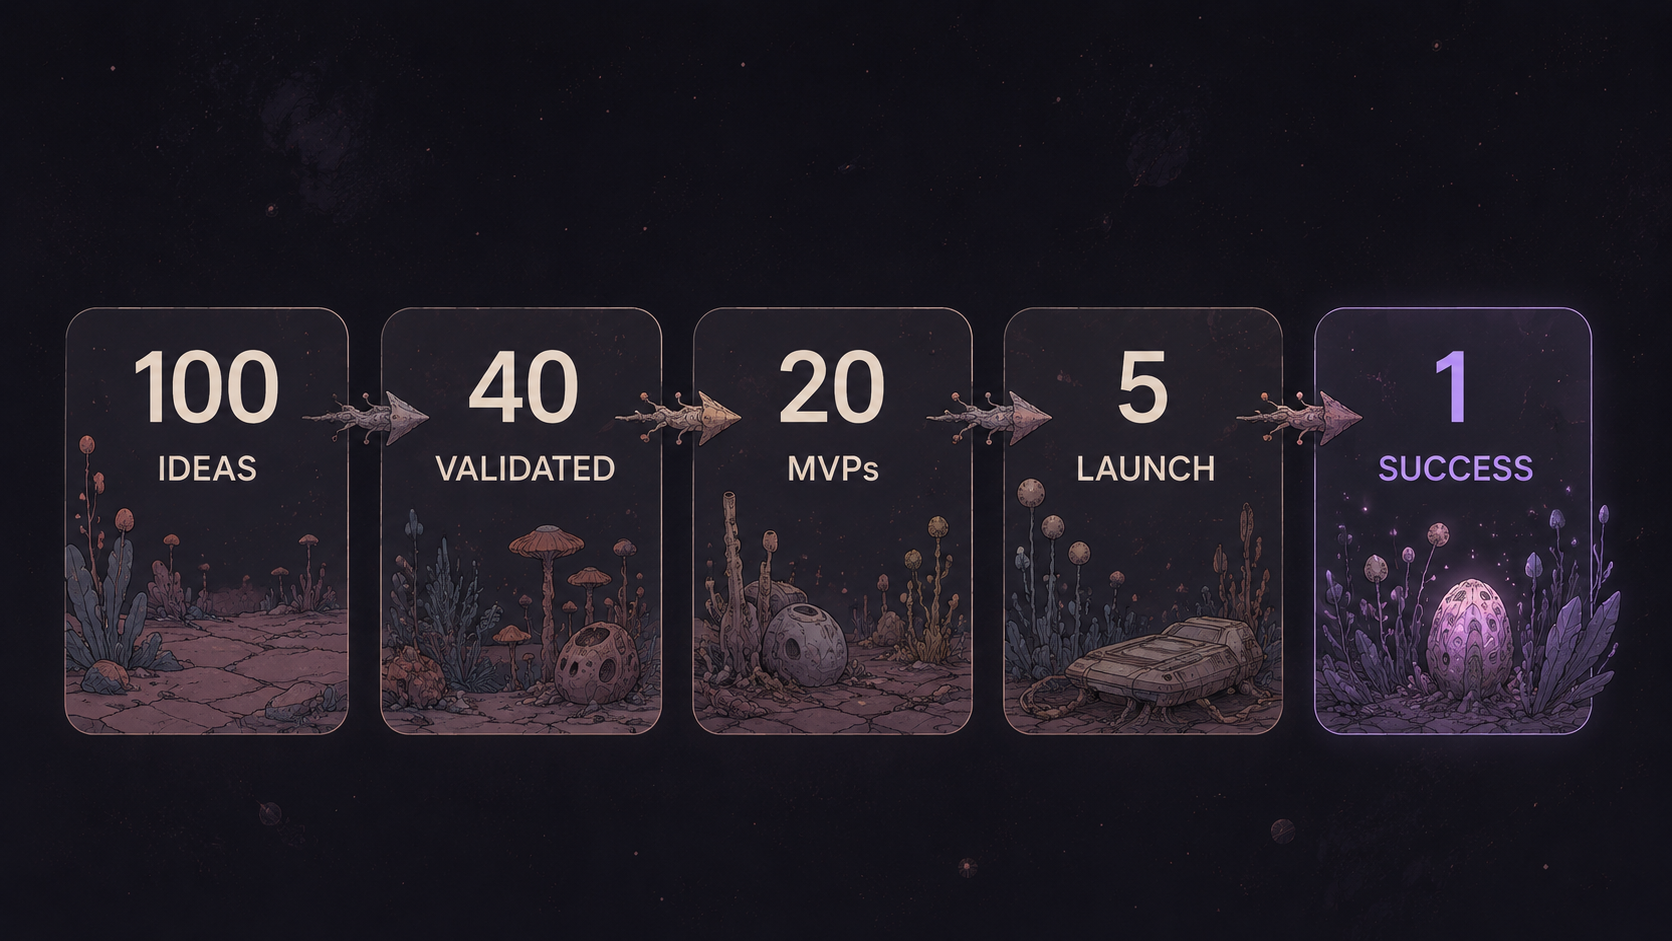
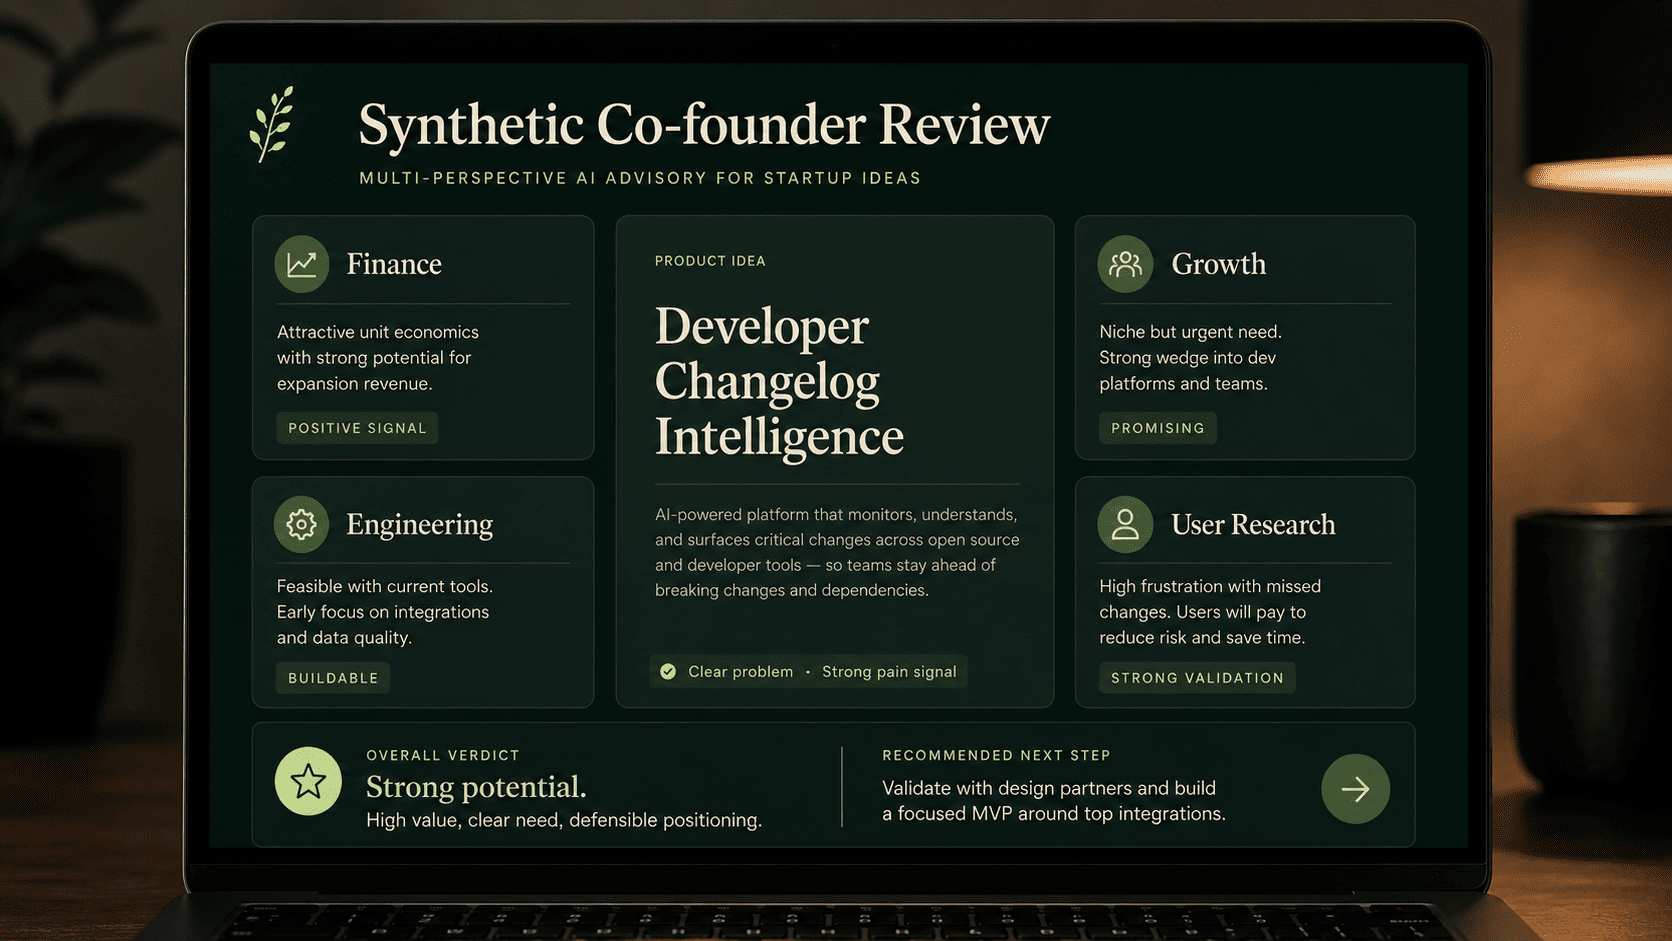
chore: update cover image and adjust post card styling
- Replaced cover image for "What love and building products have in common."
- Enlarged `.posts-card-strip` height for better content fit.

diff --git a/styles/main.css b/styles/main.css
@@ -1307,7 +1307,7 @@ html.light body {
 }
 
 .posts-card-strip {
-    height: 120px;
+    height: 230px;
     border-radius: 8px;
     margin: 20px 0 20px;
     border: 1px solid rgba(120, 140, 255, 0.08);
@@ -1427,7 +1427,7 @@ html.light .posts-card-gold .posts-card-strip {
     }
 
     .posts-card-strip {
-        height: 70px;
+        height: 188px;
         border-radius: 8px;
     }
 
